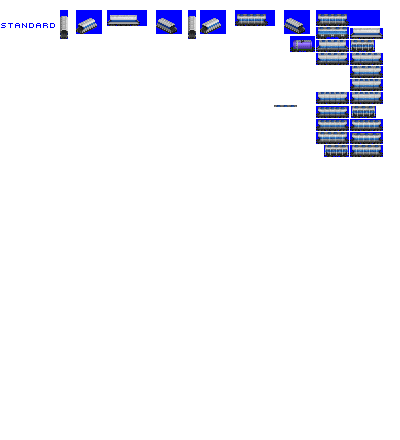
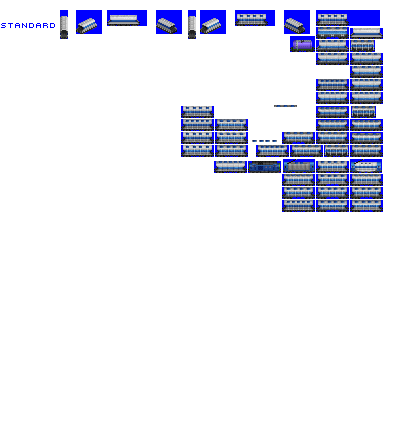
Change: WIP on covered hoppers

diff --git a/src/vehicles/hopper_cars.py b/src/vehicles/hopper_cars.py
@@ -134,6 +134,42 @@ def main():
                               spritesheet_suffix=1,
                               graphics_processor=consist.graphics_processors[1])
 
+    consist = HopperConsist(roster='pony',
+                            base_numeric_id=3010,
+                            gen=6,
+                            subtype='A')
+
+    consist.add_unit(type=FreightCar,
+                     vehicle_length=6)
+
+    consist.add_model_variant(start_date=0,
+                              end_date=global_constants.max_game_date,
+                              spritesheet_suffix=0,
+                              graphics_processor=consist.graphics_processors[0])
+
+    consist.add_model_variant(start_date=0,
+                              end_date=global_constants.max_game_date,
+                              spritesheet_suffix=1,
+                              graphics_processor=consist.graphics_processors[1])
+
+    consist = HopperConsist(roster='pony',
+                            base_numeric_id=3020,
+                            gen=6,
+                            subtype='B')
+
+    consist.add_unit(type=FreightCar,
+                     vehicle_length=8)
+
+    consist.add_model_variant(start_date=0,
+                              end_date=global_constants.max_game_date,
+                              spritesheet_suffix=0,
+                              graphics_processor=consist.graphics_processors[0])
+
+    consist.add_model_variant(start_date=0,
+                              end_date=global_constants.max_game_date,
+                              spritesheet_suffix=1,
+                              graphics_processor=consist.graphics_processors[1])
+
     #--------------- llama ----------------------------------------------------------------------
     consist = HopperConsist(roster='llama',
                             base_numeric_id=1100,
